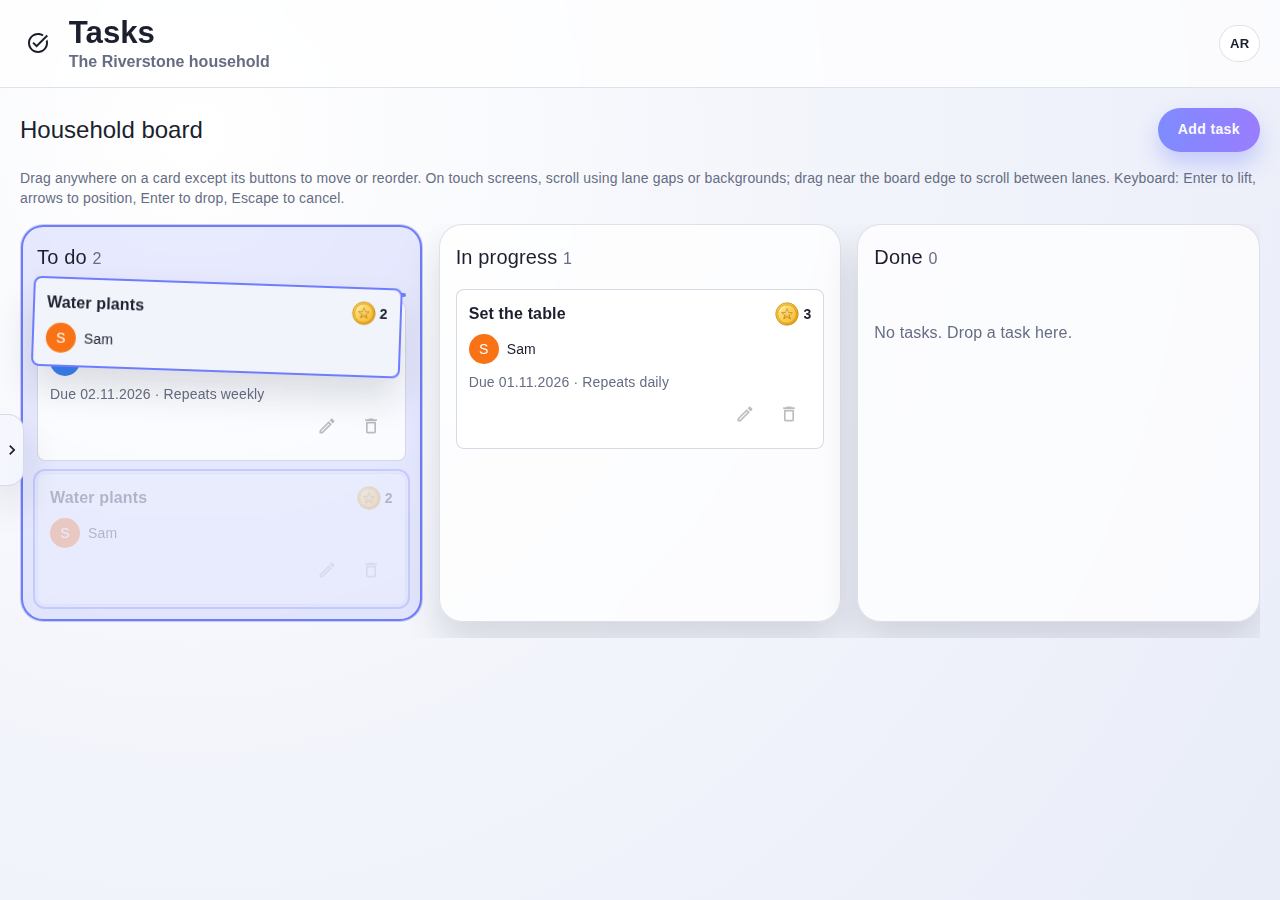
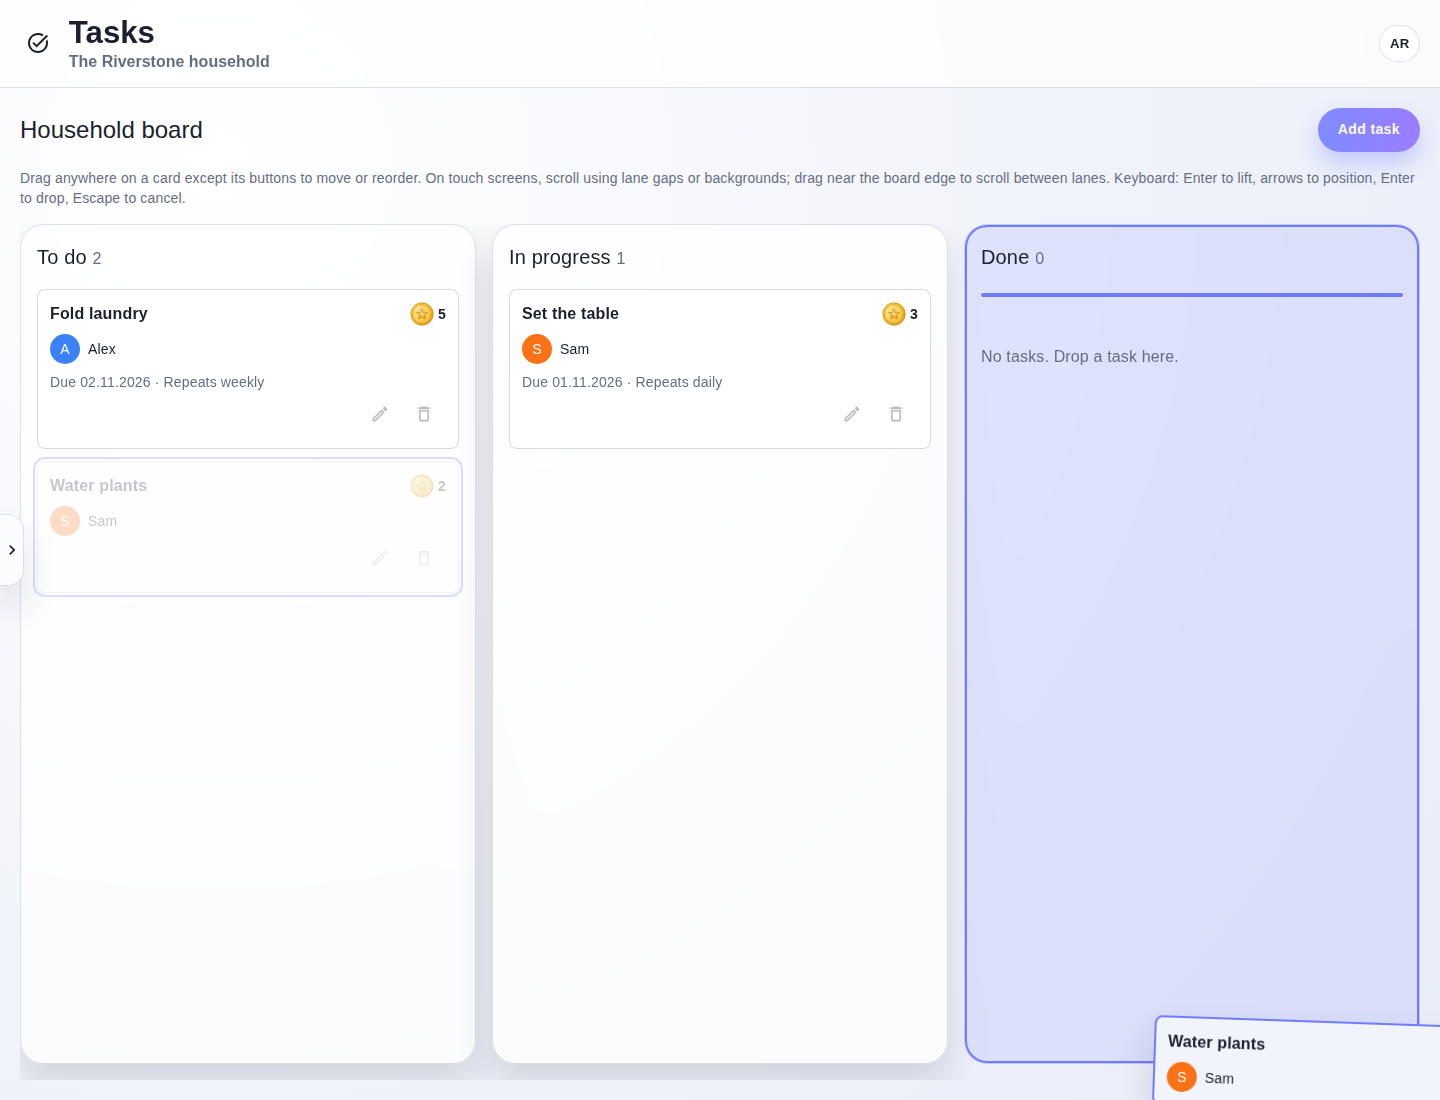
Fill viewport height with task board lane backgrounds

diff --git a/frontend/src/pages/TasksPage.stories.tsx b/frontend/src/pages/TasksPage.stories.tsx
@@ -19,7 +19,7 @@ const initialTasks: Task[] = [
     sortOrder: 0, dueDate: "2026-11-01", repeatRule: "daily", seriesId: "series-table", completedAt: null, revision: 0 },
 ];
 const longTitle = "A very long task title ".repeat(7).trim();
-type MockOptions = { failSave?: boolean; conflict?: boolean; failRefresh?: boolean; delayed?: boolean; delayedMutation?: boolean; dark?: boolean; longTitle?: boolean };
+type MockOptions = { failSave?: boolean; conflict?: boolean; failRefresh?: boolean; delayed?: boolean; delayedMutation?: boolean; dark?: boolean; longTitle?: boolean; manyTasks?: boolean };
 const writes = fn();
 
 function installMock(options: MockOptions = {}) {
@@ -27,6 +27,9 @@ function installMock(options: MockOptions = {}) {
   const original = window.fetch;
   let tasks = structuredClone(initialTasks);
   if (options.longTitle) { tasks[0].title = longTitle; tasks[0].coins = 1000000; }
+  if (options.manyTasks) tasks.push(...Array.from({ length: 24 }, (_, index) => ({
+    ...initialTasks[1], id: `extra-${index}`, title: `Extra task ${index + 1}`, sortOrder: index + 2,
+  })));
   let failSave = options.failSave;
   let conflict = options.conflict;
   let failRefresh = false;
@@ -133,10 +136,24 @@ const assertRewardHeader = async (card: HTMLElement) => {
   await expect(bounds.right - coins.right).toBeLessThan(30);
   await expect(card.querySelector('[data-testid="DragIndicatorIcon"]')).toBeNull();
 };
+const assertViewportHeight = async (canvasElement: HTMLElement) => {
+  const page = canvasElement.querySelector<HTMLElement>(".tasks-page")!;
+  const main = page.querySelector<HTMLElement>(".settings-main")!;
+  const board = main.querySelector<HTMLElement>('[aria-label="Task board"]')!;
+  const view = canvasElement.ownerDocument.defaultView!;
+  const bottomPadding = parseFloat(view.getComputedStyle(main).paddingBottom) + parseFloat(view.getComputedStyle(board).paddingBottom);
+  await expect(page.getBoundingClientRect().height).toBeGreaterThanOrEqual(view.innerHeight);
+  const bottoms = [...board.querySelectorAll<HTMLElement>("[data-task-column]")].map((lane) => lane.getBoundingClientRect().bottom + view.scrollY);
+  for (const bottom of bottoms) {
+    await expect(bottom).toBeGreaterThanOrEqual(view.innerHeight - bottomPadding - 1);
+    await expect(Math.abs(bottom - bottoms[0])).toBeLessThan(1);
+  }
+};
 
 export const TasksBoard: Story = {
   play: async ({ canvasElement }) => {
     const canvas = await ready(canvasElement);
+    await assertViewportHeight(canvasElement);
     const root = canvasElement.ownerDocument.documentElement;
     await expect(root.scrollWidth).toBeLessThanOrEqual(root.clientWidth);
     await expect(canvas.getByRole("region", { name: "Done" })).toHaveTextContent("No tasks");
@@ -161,6 +178,7 @@ export const TasksBoard: Story = {
 export const TasksDarkBoard: Story = { ...TasksBoard, parameters: { taskMock: { dark: true } } };
 const assertBoardLayout = async (canvasElement: HTMLElement) => {
   await ready(canvasElement);
+  await assertViewportHeight(canvasElement);
   const root = canvasElement.ownerDocument.documentElement;
   await expect(root.scrollWidth).toBeLessThanOrEqual(root.clientWidth);
   const liveRegion = canvasElement.querySelector<HTMLElement>('[role="status"][aria-live="polite"]')!;
@@ -177,6 +195,31 @@ export const TasksPhoneWidthLayout: Story = {
 export const TasksTabletWidthLayout: Story = {
   args: { boardWidth: 768 },
   play: async ({ canvasElement }) => assertBoardLayout(canvasElement),
+};
+export const TasksLongBoardLayout: Story = {
+  parameters: { taskMock: { manyTasks: true } },
+  play: async ({ canvasElement }) => {
+    await ready(canvasElement);
+    await assertViewportHeight(canvasElement);
+    const view = canvasElement.ownerDocument.defaultView!;
+    const page = canvasElement.querySelector<HTMLElement>(".tasks-page")!;
+    const main = page.querySelector<HTMLElement>(".settings-main")!;
+    const board = main.querySelector<HTMLElement>('[aria-label="Task board"]')!;
+    await expect(page.getBoundingClientRect().height).toBeGreaterThan(view.innerHeight);
+    await expect(main.getBoundingClientRect().height).toBeGreaterThan(view.innerHeight);
+    await expect(board.scrollHeight).toBeLessThanOrEqual(board.clientHeight + 1);
+    for (const lane of board.querySelectorAll<HTMLElement>("[data-task-column]")) {
+      await expect(lane.scrollHeight).toBeLessThanOrEqual(lane.clientHeight + 1);
+      for (const card of lane.querySelectorAll<HTMLElement>("[data-task-card]")) {
+        await expect(card.getBoundingClientRect().bottom).toBeLessThanOrEqual(lane.getBoundingClientRect().bottom - parseFloat(view.getComputedStyle(lane).paddingBottom));
+      }
+    }
+    const last = within(canvasElement).getByRole("article", { name: "Extra task 24" });
+    last.scrollIntoView({ block: "end" });
+    await waitFor(() => expect(view.scrollY).toBeGreaterThan(0));
+    await expect(last.getBoundingClientRect().bottom).toBeLessThanOrEqual(view.innerHeight);
+    view.scrollTo(0, 0);
+  },
 };
 export const TasksCreateEditDelete: Story = {
   play: async ({ canvasElement }) => {

diff --git a/frontend/src/features/tasks/KanbanBoard.tsx b/frontend/src/features/tasks/KanbanBoard.tsx
@@ -203,7 +203,7 @@ export function KanbanBoard({ tasks, members, disabled, onMove, onEdit, onDelete
       Drag anywhere on a card except its buttons to move or reorder. On touch screens, scroll using lane gaps or backgrounds; drag near the board edge to scroll between lanes. Keyboard: Enter to lift, arrows to position, Enter to drop, Escape to cancel.
     </Typography>
     <Box role="status" aria-live="polite" sx={{ position: "absolute", width: "1px", height: "1px", overflow: "hidden", clipPath: "inset(50%)" }}>{announcement}</Box>
-    <Box ref={board} aria-label="Task board" sx={{ display: "flex", overflowX: "auto", gap: 2, pb: 2, minWidth: 0, overscrollBehaviorX: "contain" }}>
+    <Box ref={board} aria-label="Task board" sx={{ display: "flex", flex: 1, overflowX: "auto", gap: 2, pb: 2, minWidth: 0, overscrollBehaviorX: "contain" }}>
       {taskColumns.map(({ status, label }) => {
         const cards = ordered(status);
         const marker = drag?.valid && drag.destination.status === status ? drag.destination.index : -1;

diff --git a/frontend/src/pages/TasksPage.tsx b/frontend/src/pages/TasksPage.tsx
@@ -146,7 +146,7 @@ function TaskSession({ householdId, householdName, accessToken, members, moduleN
     if (fields.repeatRule !== "none" && !fields.dueDate) return setDialogError("Repeating tasks require a due date.");
     void mutate((api) => editor.task ? api.edit(editor.task, fields) : api.create(editor.id, fields));
   };
-  return <div className="dashboard-page settings-page">
+  return <div className="dashboard-page settings-page tasks-page">
     <header className="dashboard-header grocery-header" role="banner">
       <div className="header-branding">{moduleNavigation}<div><h1>Tasks</h1><p>{householdName}</p></div></div>
       <div className="header-meta">

diff --git a/frontend/src/App.css b/frontend/src/App.css
@@ -499,6 +499,19 @@ body,
   gap: 1rem;
 }
 
+.tasks-page {
+  display: flex;
+  flex-direction: column;
+  min-height: 100vh;
+  min-height: 100dvh;
+}
+
+.tasks-page .settings-main {
+  display: flex;
+  flex-direction: column;
+  flex: 1;
+}
+
 .settings-card {
   padding: 1rem;
 }

diff --git a/CHANGELOG.md b/CHANGELOG.md
@@ -2,6 +2,8 @@
 
 ## Unreleased
 
+- Extended Tasks lane backgrounds to fill the viewport below the header and board controls, while allowing long task lists to grow naturally. Updated desktop, mobile, and drag screenshots: `docs/screenshots/tasks-kanban.png`, `docs/screenshots/tasks-kanban-mobile.png`, and `docs/screenshots/tasks-kanban-drag.png`.
+
 - Made the entire task card draggable without a handle, keeping edit/delete actions independent and taps non-mutating. Coin rewards now sit at the top right in cards and drag previews. Updated screenshots: `docs/screenshots/tasks-kanban.png`, `docs/screenshots/tasks-kanban-mobile.png`, and `docs/screenshots/tasks-kanban-drag.png`.
 
 - Task cards and floating drag previews now display the uploaded `frontend/public/family-coin.svg` artwork, retaining accessible coin-amount labels. Updated screenshots: `docs/screenshots/tasks-kanban.png`, `docs/screenshots/tasks-kanban-mobile.png`, and `docs/screenshots/tasks-kanban-drag.png`.
